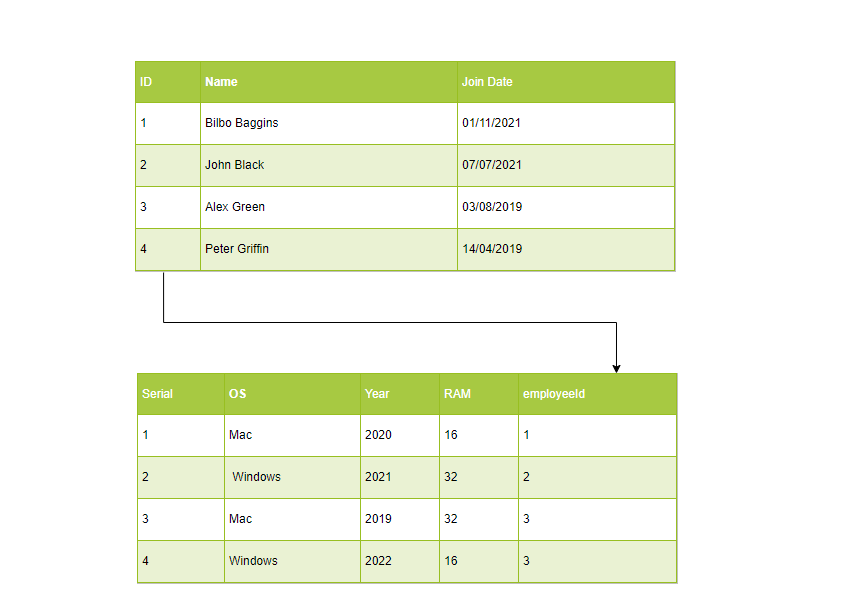
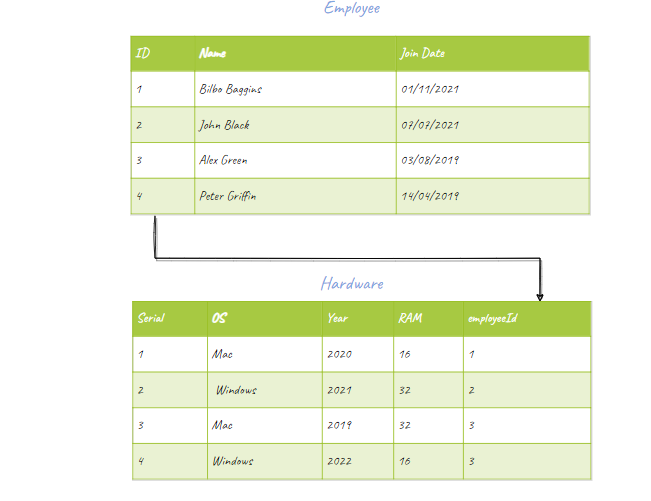
Reworked illustrations. Added keys sections

Changed region(s): [[0.1536, 0.0599, 0.9217, 0.9581], [0.4916, 0.0, 0.5837, 0.0299]]

diff --git a/Modules/docs/8-rdbms/sql.md b/Modules/docs/8-rdbms/sql.md
@@ -241,7 +241,60 @@ Here you can see join table and common technique is to create composite primary 
 So we took `employeeId` and `projectId` for composite key,combination of these will always point us at one particular row.
 
 
-- Indexes
+### Indexes and keys
+
+A _KEY_ in SQL is a value used to identify records in a table uniquely. An SQL KEY is a single column or combination of
+multiple columns used to uniquely identify rows or tuples in the table. SQL Key is used to identify duplicate information,
+and it also helps establish a relationship between multiple tables in the database.
+
+:::note
+
+Columns in a table that are NOT used to identify a record uniquely are called non-key columns.
+
+:::
+
+#### What is a Primary Key (or PK)? 
+
+A primary is a single column value used to identify a database record uniquely.
+
+It has following attributes:
+
+- A primary key cannot be NULL
+- A primary key value must be unique
+- The primary key values should rarely be changed
+- The primary key must be given a value when a new record is inserted.
+
+#### What is Composite Key? 
+
+A composite key is a primary key composed of multiple columns used to identify a record uniquely.
+
+![composite-key](/img/rdb/composite-key.PNG)
+
+In a given example we have two offices in the same city Kharkiv, but they are situated on a different streets. We cannot 
+also identify office only be street, because there are lots of streets with same name throughout country, so composite key
+helps us uniquely identify one particular office.
+
+#### What is Foreign Key?
+
+We have already used Foreign Keys (FK) during normalization process to build relations.
+
+![foreign-key](/img/rdb/foreign-key.PNG)
+
+Foreign Key references the primary key of another Table! It helps connect your Tables.
+
+- A foreign key can have a different name from its primary key
+- It ensures rows in one table have corresponding rows in another
+- Unlike the Primary key, they do not have to be unique. Most often they aren’t
+- Foreign keys can be null even though primary keys can not
+
+![foreign-key2](/img/rdb/foreign-key2.PNG)
+
+Why do you need a foreign key? Suppose, a novice inserts a record in `Hardware` such as
+
+![foreign-key-integrity](/img/rdb/fk-integrity.PNG)
+
+You will only be able to insert values into your foreign key that exist in the unique key in the parent table. 
+This helps in referential integrity.
 
 ## SQL basics
 - DDL
